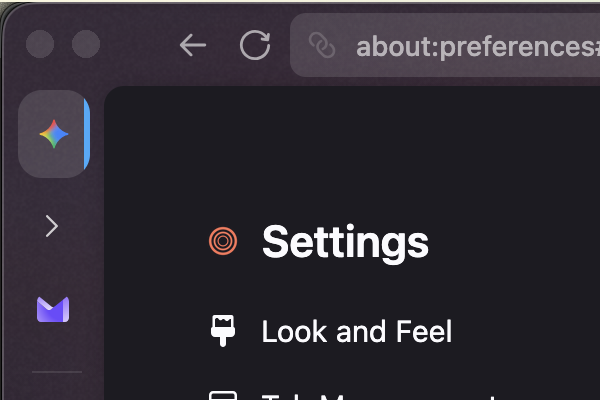
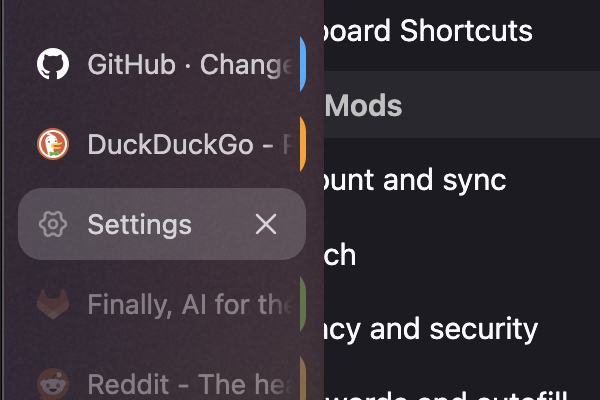
active-first: recrop registry preview to show tab list
Crop screenshot.png from after-expanded so loaded tabs and dim
inactive rows at the bottom are visible in the 600×400 preview.

diff --git a/active-first/README.md b/active-first/README.md
@@ -8,6 +8,8 @@ Companion for `zen-sidebar-expand-on-hover`.
 
 ![Registry preview (600×400)](screenshot.png)
 
+Expanded sidebar — loaded tabs above, inactive tabs dimmed at the bottom.
+
 ## Preferences
 
 - **Hide inactive tabs in rail** (`hide_inactive_in_rail`, default: on) — inactive unpinned tabs are hidden in the collapsed sidebar and revealed on hover expand.